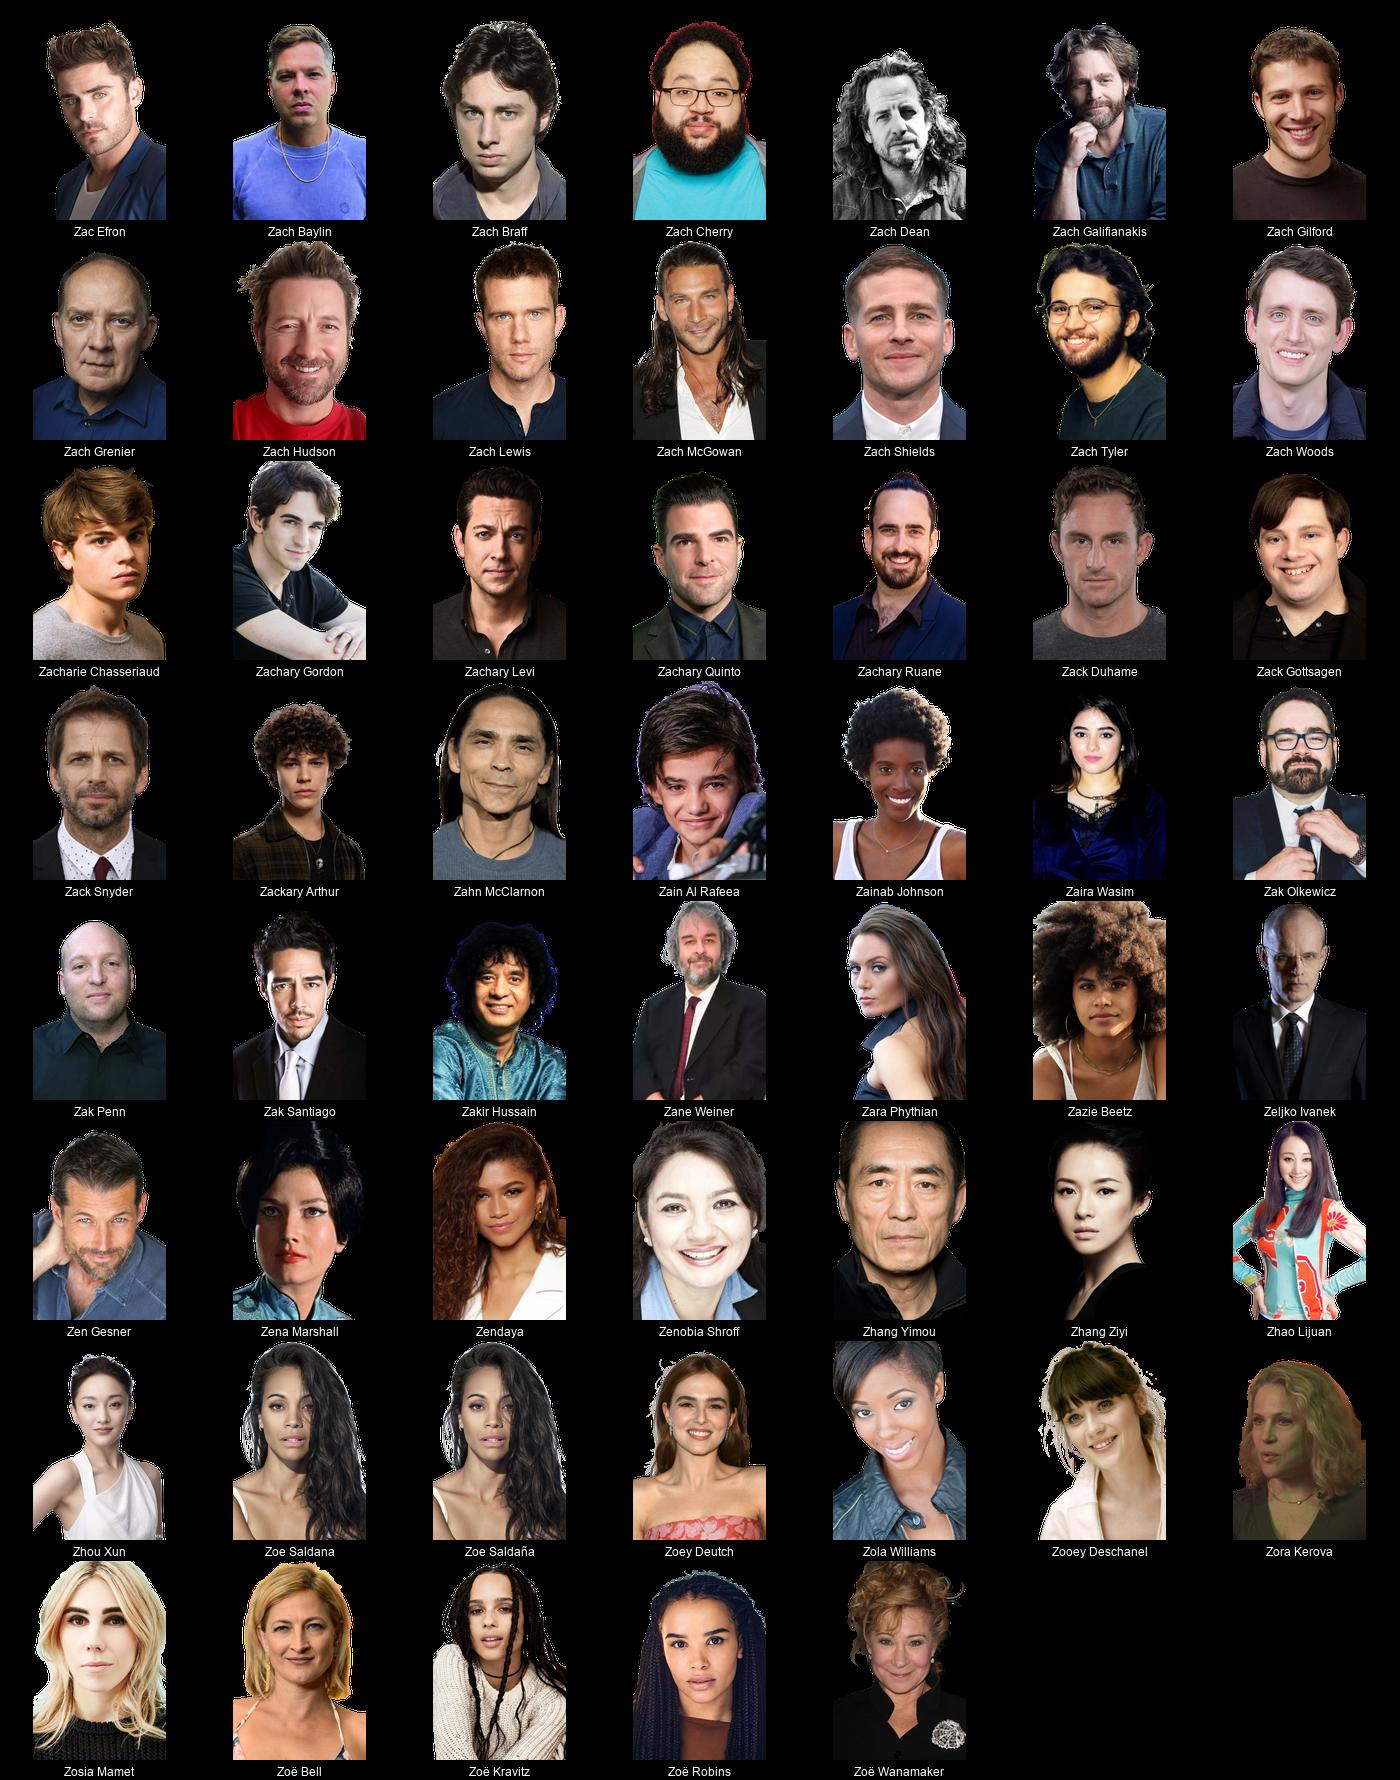
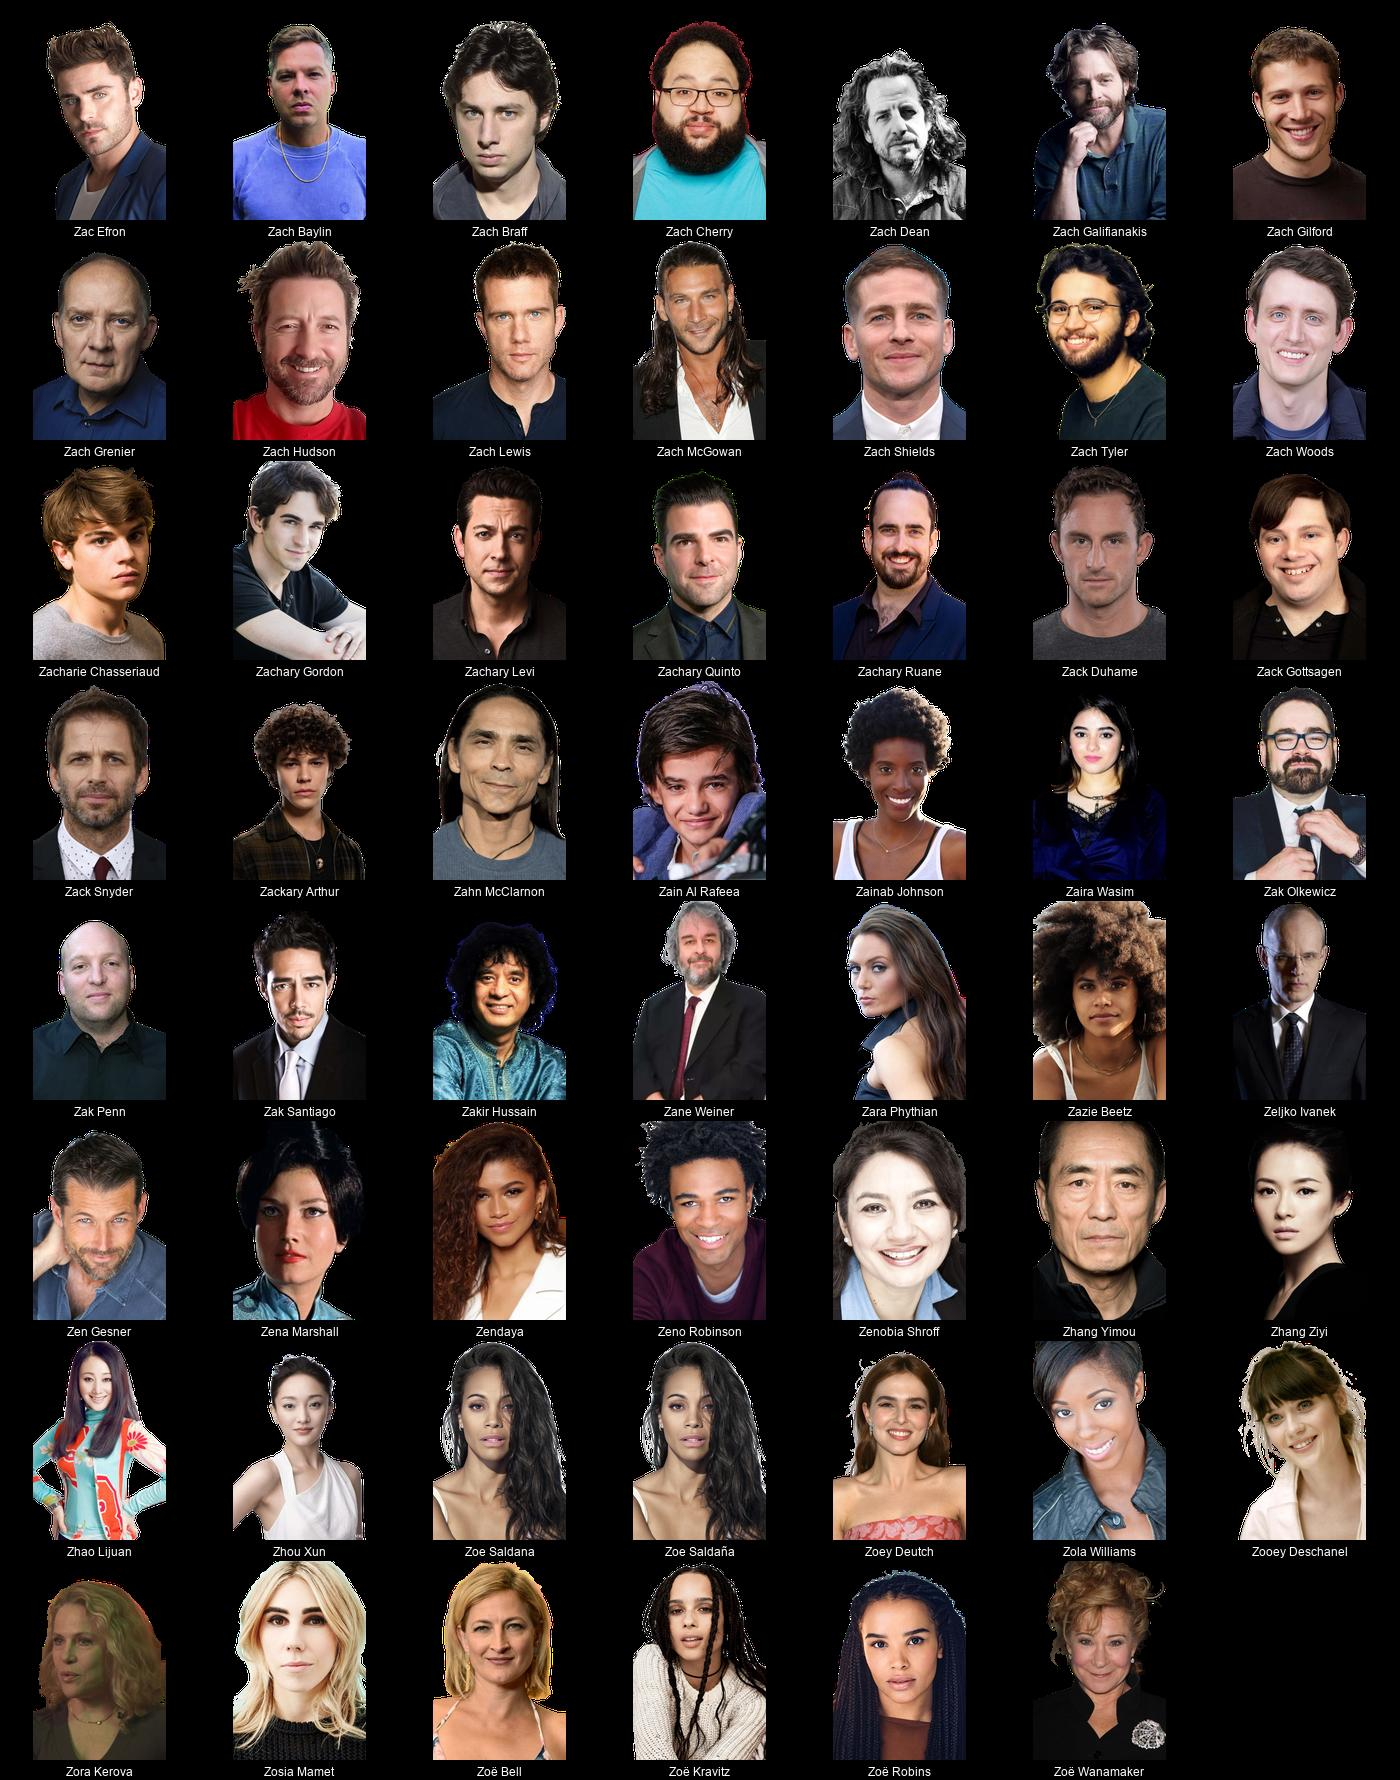
chore: sync posters & docs [transparent] — 2025-09-03 13:05

diff --git a/README.md b/README.md
@@ -1,4 +1,4 @@
-# Kometa People Images - Transparent (transparent) (11120 Images)
+# Kometa People Images - Transparent (transparent) (11124 Images)
 
 <details><summary><a href="'">' (1 Images)</a></summary>
 
@@ -2190,7 +2190,7 @@
 * [Cédric Klapisch](https://raw.githubusercontent.com/kometa-team/People-Images-transparent/master/C/Images/C%C3%A9dric%20Klapisch.png)
 * [Céline Sciamma](https://raw.githubusercontent.com/kometa-team/People-Images-transparent/master/C/Images/C%C3%A9line%20Sciamma.png)
 </details>
-<details><summary><a href="D">D (711 Images)</a></summary>
+<details><summary><a href="D">D (712 Images)</a></summary>
 
 * [D. David Morin](https://raw.githubusercontent.com/kometa-team/People-Images-transparent/master/D/Images/D.%20David%20Morin.png)
 * [D.A. Obahor](https://raw.githubusercontent.com/kometa-team/People-Images-transparent/master/D/Images/D.A.%20Obahor.png)
@@ -2505,6 +2505,7 @@
 * [David Hoberman](https://raw.githubusercontent.com/kometa-team/People-Images-transparent/master/D/Images/David%20Hoberman.png)
 * [David Holt](https://raw.githubusercontent.com/kometa-team/People-Images-transparent/master/D/Images/David%20Holt.png)
 * [David Holthouse](https://raw.githubusercontent.com/kometa-team/People-Images-transparent/master/D/Images/David%20Holthouse.png)
+* [David Hornsby](https://raw.githubusercontent.com/kometa-team/People-Images-transparent/master/D/Images/David%20Hornsby.png)
 * [David Hyde Pierce](https://raw.githubusercontent.com/kometa-team/People-Images-transparent/master/D/Images/David%20Hyde%20Pierce.png)
 * [David Jason](https://raw.githubusercontent.com/kometa-team/People-Images-transparent/master/D/Images/David%20Jason.png)
 * [David Kallaway](https://raw.githubusercontent.com/kometa-team/People-Images-transparent/master/D/Images/David%20Kallaway.png)
@@ -5697,7 +5698,7 @@
 * [Jürgen Vogel](https://raw.githubusercontent.com/kometa-team/People-Images-transparent/master/J/Images/J%C3%BCrgen%20Vogel.png)
 * [Jūzō Itami](https://raw.githubusercontent.com/kometa-team/People-Images-transparent/master/J/Images/J%C5%ABz%C5%8D%20Itami.png)
 </details>
-<details><summary><a href="K">K (538 Images)</a></summary>
+<details><summary><a href="K">K (539 Images)</a></summary>
 
 * [K Raghavendra Rao](https://raw.githubusercontent.com/kometa-team/People-Images-transparent/master/K/Images/K%20Raghavendra%20Rao.png)
 * [K.J. Apa](https://raw.githubusercontent.com/kometa-team/People-Images-transparent/master/K/Images/K.J.%20Apa.png)
@@ -5705,6 +5706,7 @@
 * [Kadan Rockett](https://raw.githubusercontent.com/kometa-team/People-Images-transparent/master/K/Images/Kadan%20Rockett.png)
 * [Kaede Hondo](https://raw.githubusercontent.com/kometa-team/People-Images-transparent/master/K/Images/Kaede%20Hondo.png)
 * [Kaitlin Doubleday](https://raw.githubusercontent.com/kometa-team/People-Images-transparent/master/K/Images/Kaitlin%20Doubleday.png)
+* [Kaitlin Olson](https://raw.githubusercontent.com/kometa-team/People-Images-transparent/master/K/Images/Kaitlin%20Olson.png)
 * [Kaitlyn Dever](https://raw.githubusercontent.com/kometa-team/People-Images-transparent/master/K/Images/Kaitlyn%20Dever.png)
 * [Kaitlyn Dias](https://raw.githubusercontent.com/kometa-team/People-Images-transparent/master/K/Images/Kaitlyn%20Dias.png)
 * [Kaitlyn Maher](https://raw.githubusercontent.com/kometa-team/People-Images-transparent/master/K/Images/Kaitlyn%20Maher.png)
@@ -9337,7 +9339,7 @@
 * [Ryusei Nakao](https://raw.githubusercontent.com/kometa-team/People-Images-transparent/master/R/Images/Ryusei%20Nakao.png)
 * [Ryusuke Hamaguchi](https://raw.githubusercontent.com/kometa-team/People-Images-transparent/master/R/Images/Ryusuke%20Hamaguchi.png)
 </details>
-<details><summary><a href="S">S (789 Images)</a></summary>
+<details><summary><a href="S">S (790 Images)</a></summary>
 
 * [S. S. Rajamouli](https://raw.githubusercontent.com/kometa-team/People-Images-transparent/master/S/Images/S.%20S.%20Rajamouli.png)
 * [Saagar Shaikh](https://raw.githubusercontent.com/kometa-team/People-Images-transparent/master/S/Images/Saagar%20Shaikh.png)
@@ -9825,6 +9827,7 @@
 * [Siobhan Williams](https://raw.githubusercontent.com/kometa-team/People-Images-transparent/master/S/Images/Siobhan%20Williams.png)
 * [Siobhán McSweeney](https://raw.githubusercontent.com/kometa-team/People-Images-transparent/master/S/Images/Siobh%C3%A1n%20McSweeney.png)
 * [Sion Sono](https://raw.githubusercontent.com/kometa-team/People-Images-transparent/master/S/Images/Sion%20Sono.png)
+* [Sisa Grey](https://raw.githubusercontent.com/kometa-team/People-Images-transparent/master/S/Images/Sisa%20Grey.png)
 * [Sissela Kyle](https://raw.githubusercontent.com/kometa-team/People-Images-transparent/master/S/Images/Sissela%20Kyle.png)
 * [Sissy Spacek](https://raw.githubusercontent.com/kometa-team/People-Images-transparent/master/S/Images/Sissy%20Spacek.png)
 * [Skeet Ulrich](https://raw.githubusercontent.com/kometa-team/People-Images-transparent/master/S/Images/Skeet%20Ulrich.png)
@@ -11134,7 +11137,7 @@
 * [Yûki Kaji](https://raw.githubusercontent.com/kometa-team/People-Images-transparent/master/Y/Images/Y%C3%BBki%20Kaji.png)
 * [Yūkichi Kobayashi](https://raw.githubusercontent.com/kometa-team/People-Images-transparent/master/Y/Images/Y%C5%ABkichi%20Kobayashi.png)
 </details>
-<details><summary><a href="Z">Z (54 Images)</a></summary>
+<details><summary><a href="Z">Z (55 Images)</a></summary>
 
 * [Zac Efron](https://raw.githubusercontent.com/kometa-team/People-Images-transparent/master/Z/Images/Zac%20Efron.png)
 * [Zach Baylin](https://raw.githubusercontent.com/kometa-team/People-Images-transparent/master/Z/Images/Zach%20Baylin.png)
@@ -11174,6 +11177,7 @@
 * [Zen Gesner](https://raw.githubusercontent.com/kometa-team/People-Images-transparent/master/Z/Images/Zen%20Gesner.png)
 * [Zena Marshall](https://raw.githubusercontent.com/kometa-team/People-Images-transparent/master/Z/Images/Zena%20Marshall.png)
 * [Zendaya](https://raw.githubusercontent.com/kometa-team/People-Images-transparent/master/Z/Images/Zendaya.png)
+* [Zeno Robinson](https://raw.githubusercontent.com/kometa-team/People-Images-transparent/master/Z/Images/Zeno%20Robinson.png)
 * [Zenobia Shroff](https://raw.githubusercontent.com/kometa-team/People-Images-transparent/master/Z/Images/Zenobia%20Shroff.png)
 * [Zhang Yimou](https://raw.githubusercontent.com/kometa-team/People-Images-transparent/master/Z/Images/Zhang%20Yimou.png)
 * [Zhang Ziyi](https://raw.githubusercontent.com/kometa-team/People-Images-transparent/master/Z/Images/Zhang%20Ziyi.png)

diff --git a/D/README.md b/D/README.md
@@ -1,4 +1,4 @@
-# Kometa People Images - Transparent (transparent) - D (711 Images)
+# Kometa People Images - Transparent (transparent) - D (712 Images)
 ![Grid](grid.jpg)
 
 * [D. David Morin](https://raw.githubusercontent.com/kometa-team/People-Images-transparent/master/D/Images/D.%20David%20Morin.png)
@@ -314,6 +314,7 @@
 * [David Hoberman](https://raw.githubusercontent.com/kometa-team/People-Images-transparent/master/D/Images/David%20Hoberman.png)
 * [David Holt](https://raw.githubusercontent.com/kometa-team/People-Images-transparent/master/D/Images/David%20Holt.png)
 * [David Holthouse](https://raw.githubusercontent.com/kometa-team/People-Images-transparent/master/D/Images/David%20Holthouse.png)
+* [David Hornsby](https://raw.githubusercontent.com/kometa-team/People-Images-transparent/master/D/Images/David%20Hornsby.png)
 * [David Hyde Pierce](https://raw.githubusercontent.com/kometa-team/People-Images-transparent/master/D/Images/David%20Hyde%20Pierce.png)
 * [David Jason](https://raw.githubusercontent.com/kometa-team/People-Images-transparent/master/D/Images/David%20Jason.png)
 * [David Kallaway](https://raw.githubusercontent.com/kometa-team/People-Images-transparent/master/D/Images/David%20Kallaway.png)

diff --git a/K/README.md b/K/README.md
@@ -1,4 +1,4 @@
-# Kometa People Images - Transparent (transparent) - K (538 Images)
+# Kometa People Images - Transparent (transparent) - K (539 Images)
 ![Grid](grid.jpg)
 
 * [K Raghavendra Rao](https://raw.githubusercontent.com/kometa-team/People-Images-transparent/master/K/Images/K%20Raghavendra%20Rao.png)
@@ -7,6 +7,7 @@
 * [Kadan Rockett](https://raw.githubusercontent.com/kometa-team/People-Images-transparent/master/K/Images/Kadan%20Rockett.png)
 * [Kaede Hondo](https://raw.githubusercontent.com/kometa-team/People-Images-transparent/master/K/Images/Kaede%20Hondo.png)
 * [Kaitlin Doubleday](https://raw.githubusercontent.com/kometa-team/People-Images-transparent/master/K/Images/Kaitlin%20Doubleday.png)
+* [Kaitlin Olson](https://raw.githubusercontent.com/kometa-team/People-Images-transparent/master/K/Images/Kaitlin%20Olson.png)
 * [Kaitlyn Dever](https://raw.githubusercontent.com/kometa-team/People-Images-transparent/master/K/Images/Kaitlyn%20Dever.png)
 * [Kaitlyn Dias](https://raw.githubusercontent.com/kometa-team/People-Images-transparent/master/K/Images/Kaitlyn%20Dias.png)
 * [Kaitlyn Maher](https://raw.githubusercontent.com/kometa-team/People-Images-transparent/master/K/Images/Kaitlyn%20Maher.png)

diff --git a/S/README.md b/S/README.md
@@ -1,4 +1,4 @@
-# Kometa People Images - Transparent (transparent) - S (789 Images)
+# Kometa People Images - Transparent (transparent) - S (790 Images)
 ![Grid](grid.jpg)
 
 * [S. S. Rajamouli](https://raw.githubusercontent.com/kometa-team/People-Images-transparent/master/S/Images/S.%20S.%20Rajamouli.png)
@@ -487,6 +487,7 @@
 * [Siobhan Williams](https://raw.githubusercontent.com/kometa-team/People-Images-transparent/master/S/Images/Siobhan%20Williams.png)
 * [Siobhán McSweeney](https://raw.githubusercontent.com/kometa-team/People-Images-transparent/master/S/Images/Siobh%C3%A1n%20McSweeney.png)
 * [Sion Sono](https://raw.githubusercontent.com/kometa-team/People-Images-transparent/master/S/Images/Sion%20Sono.png)
+* [Sisa Grey](https://raw.githubusercontent.com/kometa-team/People-Images-transparent/master/S/Images/Sisa%20Grey.png)
 * [Sissela Kyle](https://raw.githubusercontent.com/kometa-team/People-Images-transparent/master/S/Images/Sissela%20Kyle.png)
 * [Sissy Spacek](https://raw.githubusercontent.com/kometa-team/People-Images-transparent/master/S/Images/Sissy%20Spacek.png)
 * [Skeet Ulrich](https://raw.githubusercontent.com/kometa-team/People-Images-transparent/master/S/Images/Skeet%20Ulrich.png)

diff --git a/Z/README.md b/Z/README.md
@@ -1,4 +1,4 @@
-# Kometa People Images - Transparent (transparent) - Z (54 Images)
+# Kometa People Images - Transparent (transparent) - Z (55 Images)
 ![Grid](grid.jpg)
 
 * [Zac Efron](https://raw.githubusercontent.com/kometa-team/People-Images-transparent/master/Z/Images/Zac%20Efron.png)
@@ -39,6 +39,7 @@
 * [Zen Gesner](https://raw.githubusercontent.com/kometa-team/People-Images-transparent/master/Z/Images/Zen%20Gesner.png)
 * [Zena Marshall](https://raw.githubusercontent.com/kometa-team/People-Images-transparent/master/Z/Images/Zena%20Marshall.png)
 * [Zendaya](https://raw.githubusercontent.com/kometa-team/People-Images-transparent/master/Z/Images/Zendaya.png)
+* [Zeno Robinson](https://raw.githubusercontent.com/kometa-team/People-Images-transparent/master/Z/Images/Zeno%20Robinson.png)
 * [Zenobia Shroff](https://raw.githubusercontent.com/kometa-team/People-Images-transparent/master/Z/Images/Zenobia%20Shroff.png)
 * [Zhang Yimou](https://raw.githubusercontent.com/kometa-team/People-Images-transparent/master/Z/Images/Zhang%20Yimou.png)
 * [Zhang Ziyi](https://raw.githubusercontent.com/kometa-team/People-Images-transparent/master/Z/Images/Zhang%20Ziyi.png)
